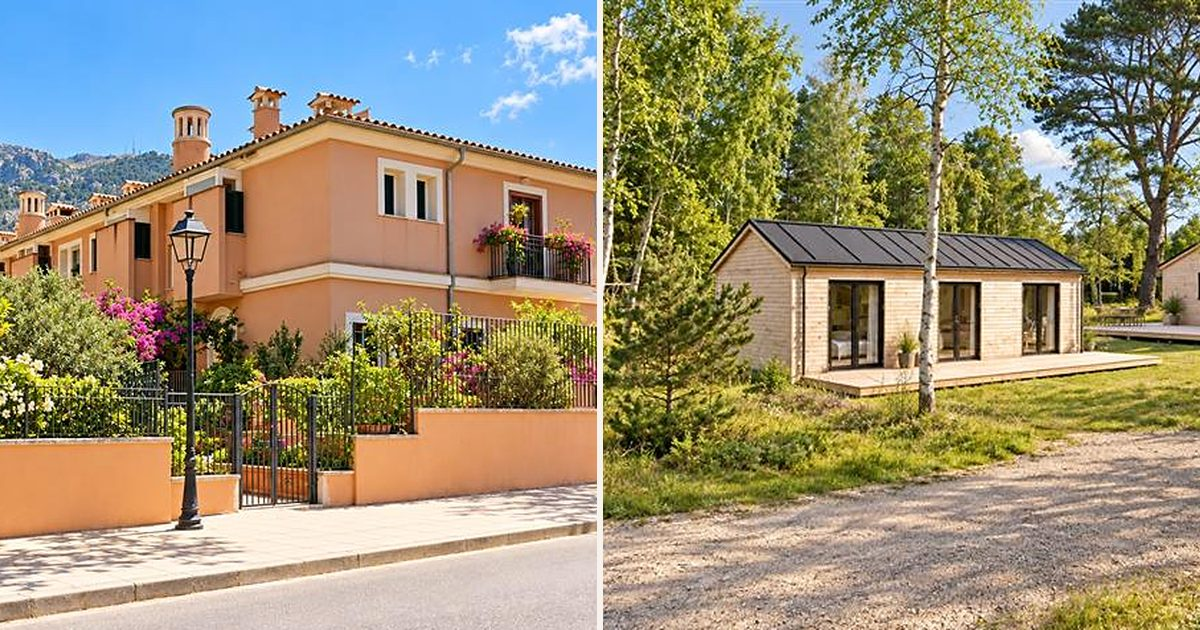
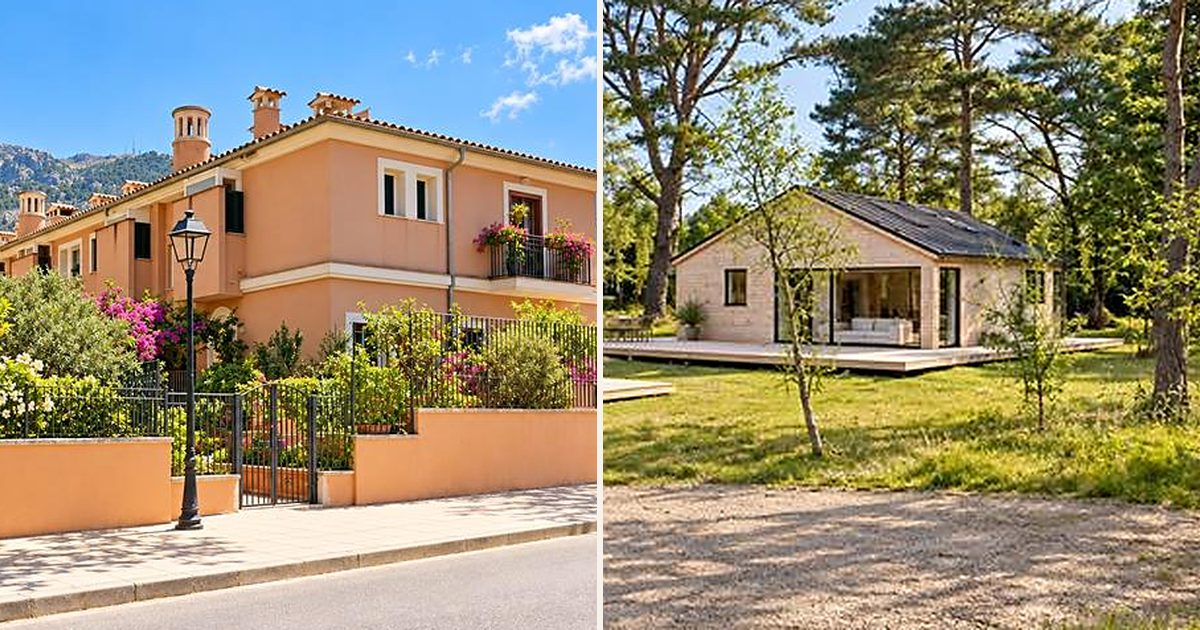
Odde card photo: focus on the cabin on the right
Claude-Session: https://claude.ai/code/session_01NtEo6PUhNx8Tv7Z1M7quRt

diff --git a/js/views/auth.js b/js/views/auth.js
@@ -10,7 +10,7 @@ import { busy, toast, nextId } from '../ui.js';
 function art() {
   return html`<div class="auth-art" aria-hidden="true">
     <figure class="auth-photo auth-photo-a"><img src="assets/img/mallorca-portrait.webp" alt="" style="object-position:52% 50%"></figure>
-    <figure class="auth-photo auth-photo-b"><img src="assets/img/odde-portrait.webp" alt="" style="object-position:46% 55%"></figure>
+    <figure class="auth-photo auth-photo-b"><img src="assets/img/odde-portrait.webp" alt="" style="object-position:50% 50%"></figure>
   </div>`;
 }
 

diff --git a/js/properties.js b/js/properties.js
@@ -23,7 +23,7 @@ export const STYLE = {
     imageSm: 'assets/img/odde-sm.webp',
     portrait: 'assets/img/odde-portrait.webp',
     focus: '48% 52%',
-    portraitFocus: '46% 55%',
+    portraitFocus: '50% 50%',
     teaser: {
       name: 'Sjællands Odde',
       area: 'Sjællands Odde · Danmark',

diff --git a/dev/make-images.py b/dev/make-images.py
@@ -11,6 +11,7 @@ from PIL import Image, ImageEnhance, ImageFilter
 ROOT = Path(__file__).resolve().parent.parent
 PHOTOS = ROOT / "assets" / "photos"
 OUT = ROOT / "assets" / "img"
+PORTRAIT_MIN_WIDTH = 600
 
 PROPERTIES = {
     "mallorca": {
@@ -22,7 +23,8 @@ PROPERTIES = {
     "odde": {
         "src": "odde-original.jpg",
         "wide": (0, 0, 800, 450),
-        "portrait": (118, 0, 578, 440),   # the first cabin between the birches
+        "portrait": (492, 52, 800, 376),  # the cabin on the right (the family's house)
+        "upscale": True,
         "grade": {"color": 1.0, "contrast": 1.02, "brightness": 1.0, "warm": 1.0},
     },
 }
@@ -65,6 +67,10 @@ def main():
         src = grade(Image.open(PHOTOS / cfg["src"]).convert("RGB"), cfg["grade"])
         wide = src.crop(cfg["wide"])
         portrait = src.crop(cfg["portrait"])
+        if cfg.get("upscale") and portrait.width < PORTRAIT_MIN_WIDTH:  # tight crop: keep cards sharp on phones
+            h = round(portrait.height * PORTRAIT_MIN_WIDTH / portrait.width)
+            portrait = portrait.resize((PORTRAIT_MIN_WIDTH, h), Image.LANCZOS)
+            portrait = portrait.filter(ImageFilter.UnsharpMask(radius=1.2, percent=40, threshold=2))
         save(wide, f"{pid}.webp")
         save(wide, f"{pid}-sm.webp", width=640, quality=80)
         save(portrait, f"{pid}-portrait.webp")
